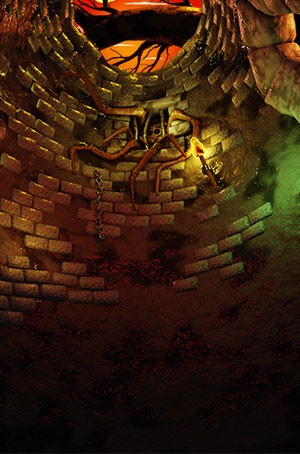
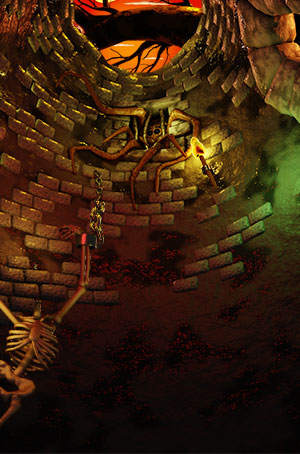
updated skeleton animation

diff --git a/preview/Amazon_Book_2025/Horror/300x600_v2/main.js b/preview/Amazon_Book_2025/Horror/300x600_v2/main.js
@@ -28,7 +28,7 @@ function init() {
 
 function getAnimation(){
 
-    //   var skeletonTL = animateSkeleton();
+      var skeletonTL = animateSkeleton();
       var monsterTL = animateMonster();
 
     rolloverTL = gsap.timeline({paused:true});
@@ -60,7 +60,7 @@ function getAnimation(){
     // masterTL.to("#gremlin", 0.16666666666, {y:-1, repeat:11, yoyo:true, ease:Sine.easeInOut}, "start+=2.75");
     masterTL.to("#gremlin", 2, {x:0, y:0, ease:"back.inOut(1.4)"}, "start+=7.75");
     // masterTL.to("#gremlin", 0.16666666666, {y:-1, repeat:5, yoyo:true, ease:Sine.easeInOut}, "start+=4.75");
-    // masterTL.add(skeletonTL, "start+=2");
+    masterTL.add(skeletonTL, "start+=2");
     
     masterTL.add(monsterTL, "start+=2.5");
     
@@ -70,11 +70,11 @@ function getAnimation(){
 }
 
 function animateSkeleton() {
-    var tl = gsap.timeline({repeat:1});
+    var tl = gsap.timeline({repeat:0});
 
     tl.add('start');
-    tl.to("#skeleton", 1.9, {rotation:-10, ease:Power1.easeInOut}, "start");
-    tl.to("#skeleton", 1.9, {rotation:0, ease:Power1.easeInOut}, "start+=1.9");
+    tl.to("#skeleton", 4, {rotation:-30, y:5, ease:Power1.easeInOut}, "start");
+    tl.to("#skeleton", 4, {rotation:0, y:0, ease:Power1.easeInOut}, "start+=4");
 
     return tl;
 }

diff --git a/preview/Amazon_Book_2025/Horror/300x600_v2/style.css b/preview/Amazon_Book_2025/Horror/300x600_v2/style.css
@@ -119,9 +119,9 @@ img, div, object{
 }
 
 #skeleton{
-    width: 331px;
+    width: 300px;
     right: 0;
-    transform-origin: 130px 230px;
+    transform-origin: 40px 307px;
 }
 
 #monsterWrapper{
